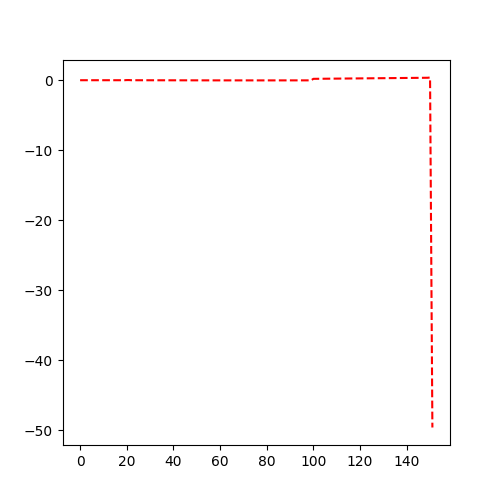
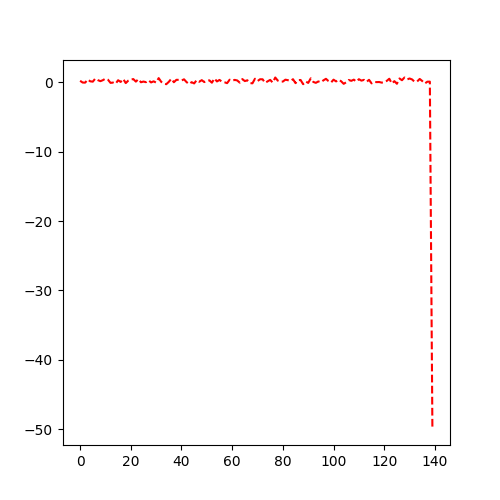
commit sync reward scaling

diff --git a/simulations/point.py b/simulations/point.py
@@ -92,6 +92,7 @@ class PointEnv(AgentModel):
     def step(self, action: np.ndarray) -> Tuple[np.ndarray, float, bool, dict]:
         speed = action[0]
         yaw = action[1]
+        prev_yaw = self.get_ori()
         vx = speed * np.cos(yaw)
         vy = speed * np.sin(yaw)
         action = np.array([vx, vy, yaw], dtype = np.float32)
@@ -99,8 +100,8 @@ class PointEnv(AgentModel):
         for _ in range(0, self.frame_skip):
             self.sim.step()
         next_obs = self._get_obs()
-        reward = np.sum(np.square(self.data.qvel[:2] / self.VELOCITY_LIMITS)) / 2
-        reward = -np.square(self.data.qvel[2]) * 5e-3
+        reward = speed * 7.5e-2
+        reward += -5e-3 * np.abs(yaw - prev_yaw) / self.dt
         return next_obs, reward, False, {}
 
     def gaussian(self, x, mean, std):

diff --git a/test_cv.py b/test_cv.py
@@ -3,7 +3,7 @@ from simulations.collision_env import CollisionEnv
 from simulations.point import PointEnv, PointEnvV2
 from simulations.maze_task import CustomGoalReward4Rooms, \
     GoalRewardNoObstacle
-env = MazeEnv(PointEnvV2, CustomGoalReward4Rooms)
+env = MazeEnv(PointEnv, CustomGoalReward4Rooms)
 import numpy as np
 import matplotlib.pyplot as plt
 import cv2
@@ -269,7 +269,7 @@ ax.set_ylabel('reward')
 total_reward = 0.0
 ac = env.get_action()
 while not done:
-    ob, reward, done, info = env.step(ac)
+    ob, reward, done, info = env.step(env.action_space.sample())
     ac = env.get_action()
     if reward != 0.0:
         count += 1
